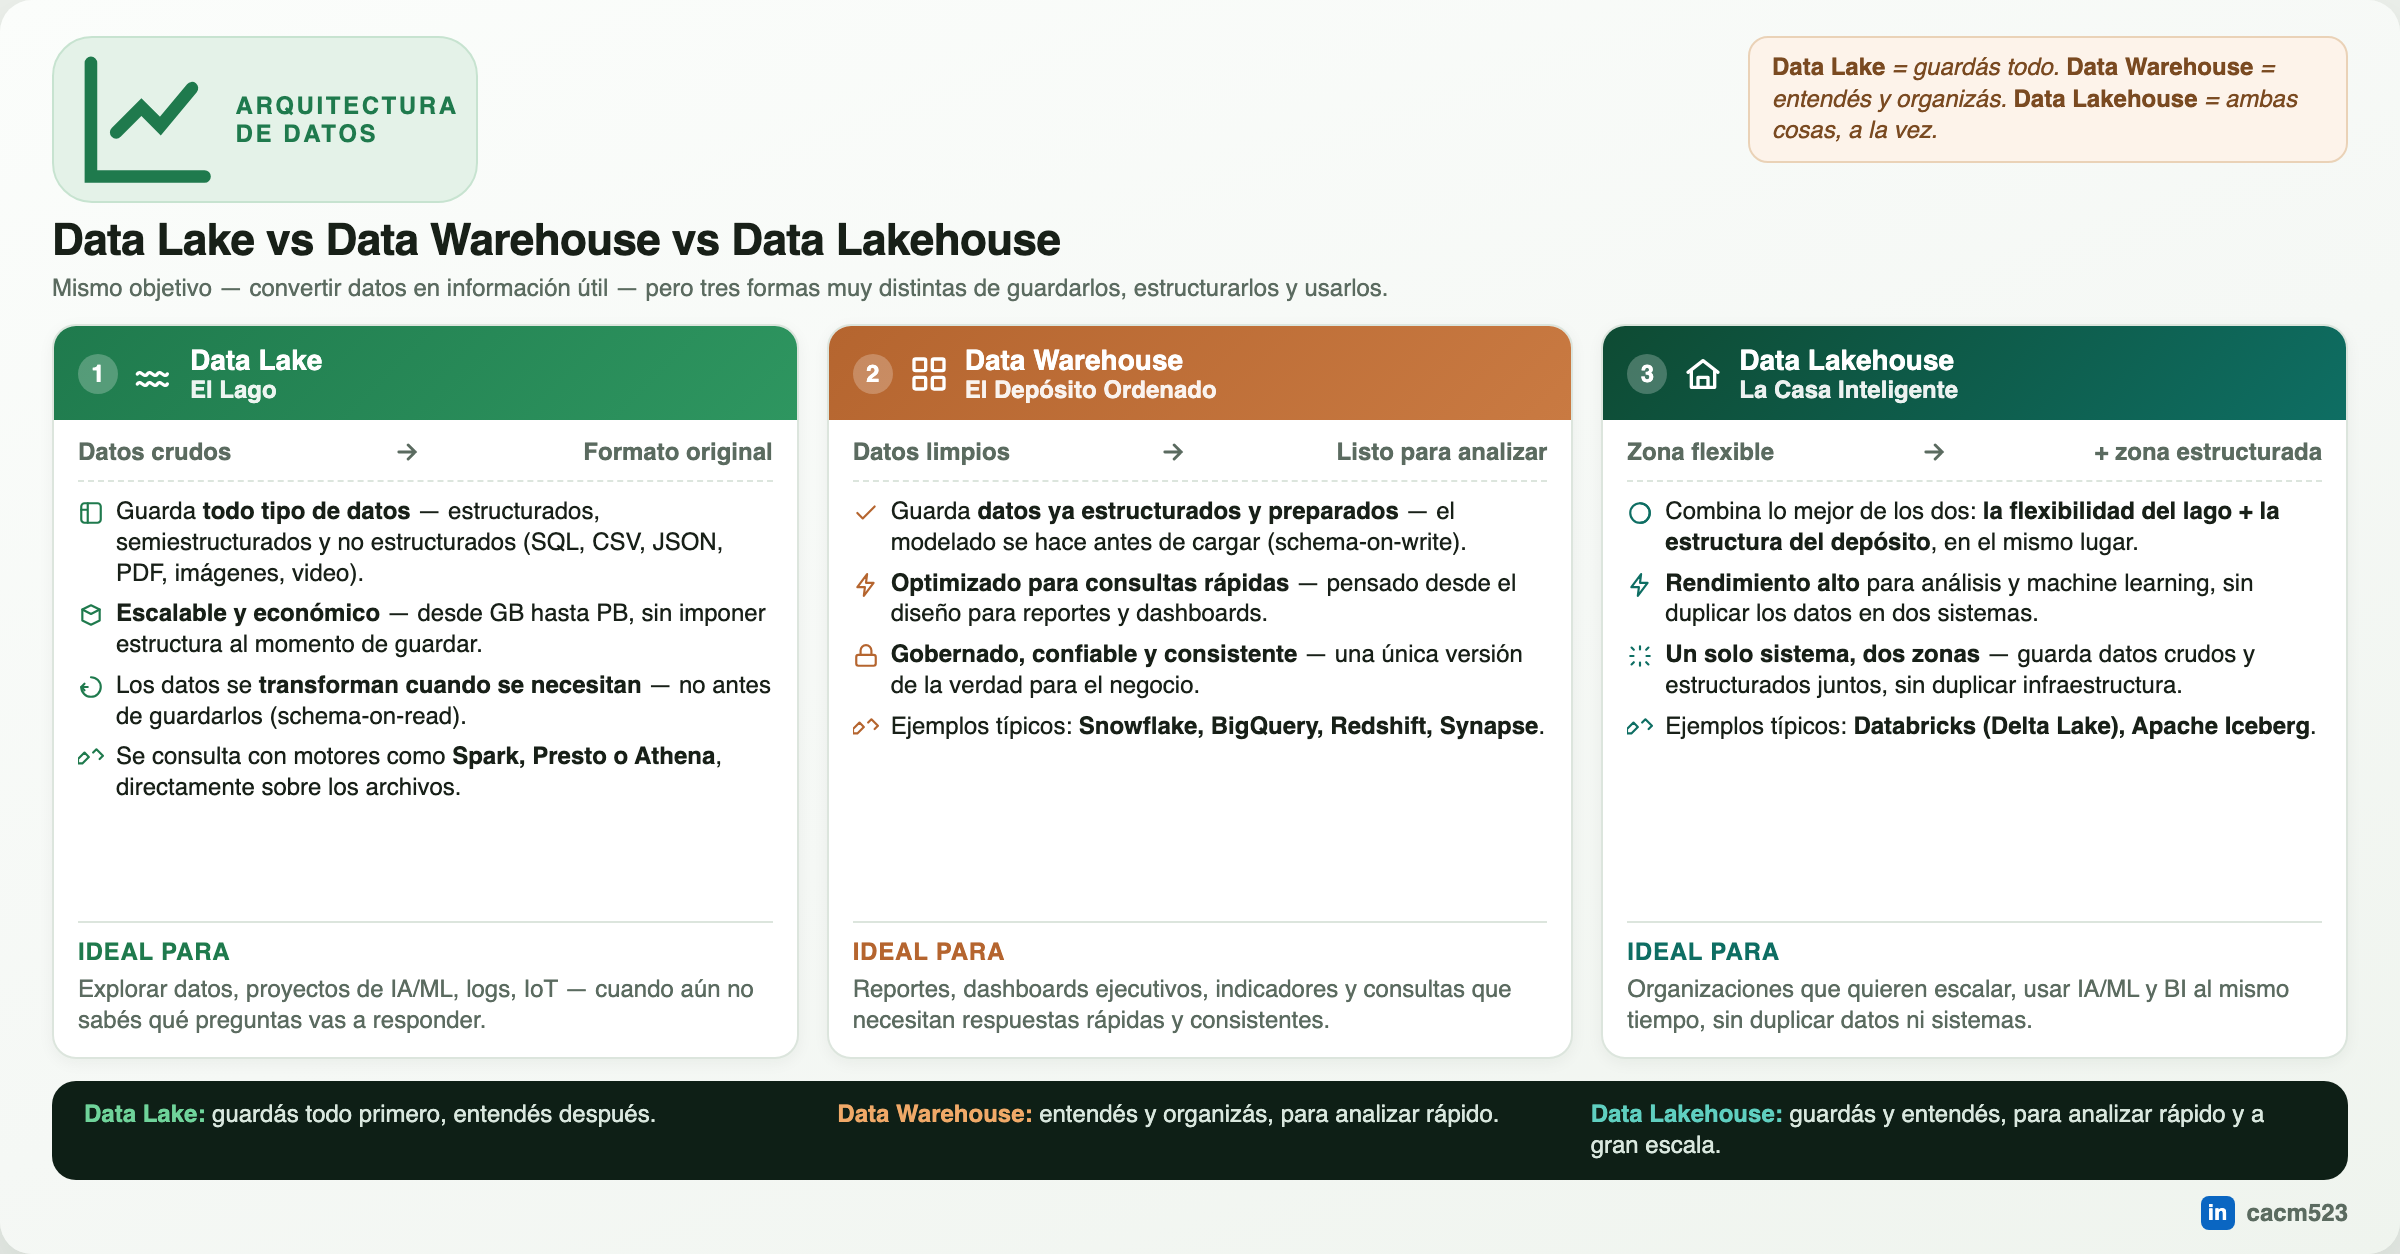
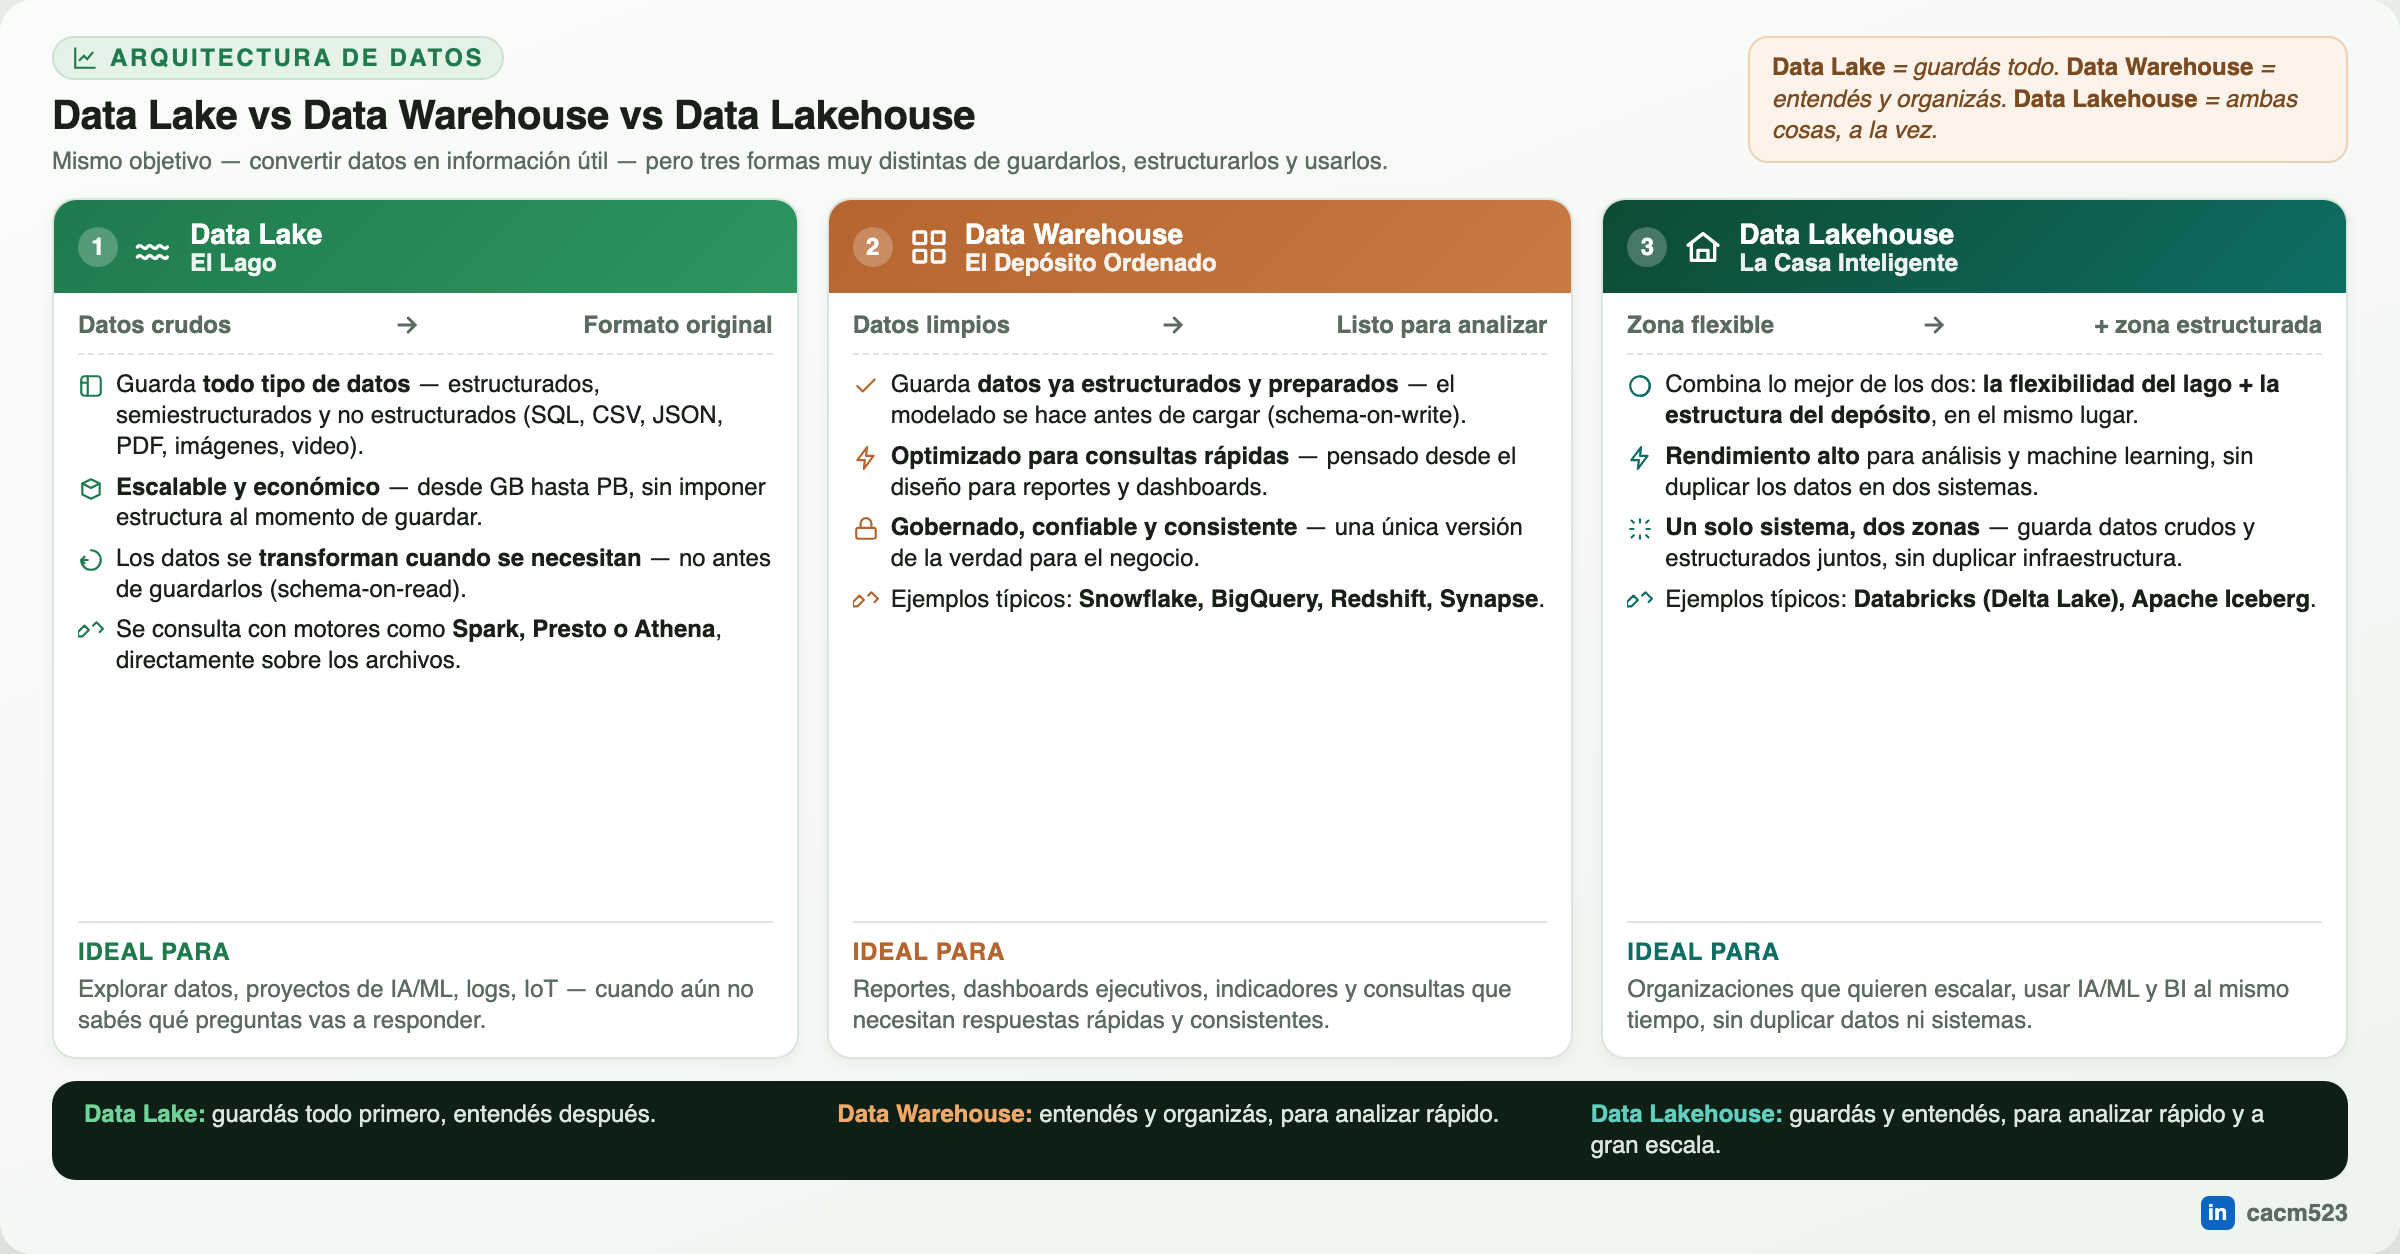
data-lake-warehouse-lakehouse: corrige tamaño del eyebrow del header
Faltaba la regla .eyebrow svg{width;height}, por lo que el ícono se
renderizaba a su tamaño intrínseco (mucho más grande de lo previsto) y
el badge se veía desproporcionado frente al resto del catálogo. Ahora
usa el mismo tamaño compacto que ciberseguridad-vs-seguridad-informacion.

Changed region(s): [[0.0, 0.0311, 1.0, 0.6531]]

diff --git a/Construidos/Data_Engineering/data-lake-warehouse-lakehouse.html b/Construidos/Data_Engineering/data-lake-warehouse-lakehouse.html
@@ -26,7 +26,8 @@
 
   .header-top{ display:flex; align-items:flex-start; justify-content:space-between; gap:16px; margin-bottom:10px; }
   .eyebrow{ display:inline-flex; align-items:center; gap:6px; font-size:12px; font-weight:800; letter-spacing:1.3px; color:var(--green); text-transform:uppercase; background:#E4F2E8; border:1px solid #C7E3D0; padding:3px 9px; border-radius:20px; margin-bottom:6px; }
-  h1{ font-size:22px; margin:0 0 3px; font-weight:800; letter-spacing:-0.3px; line-height:1.15; }
+  .eyebrow svg{ width:13px; height:13px; flex:none; }
+  h1{ font-size:20px; margin:0 0 3px; font-weight:800; letter-spacing:-0.2px; line-height:1.18; }
   .sub{ margin:0; font-size:12px; color:var(--muted); max-width:760px; line-height:1.35; }
   .quote-callout{ flex:none; max-width:300px; background:#FDF3EA; border:1px solid #EAD2B7; border-radius:10px; padding:7px 11px; font-size:12px; font-style:italic; color:#7A4A21; line-height:1.32; }
   .quote-callout b{ font-style:normal; }
